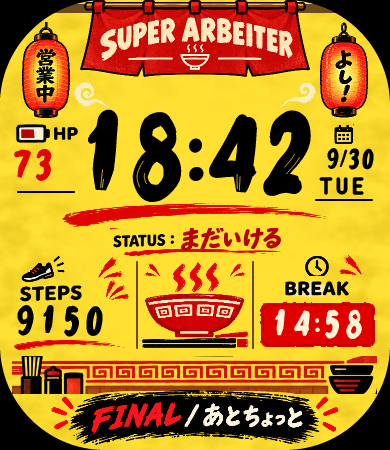
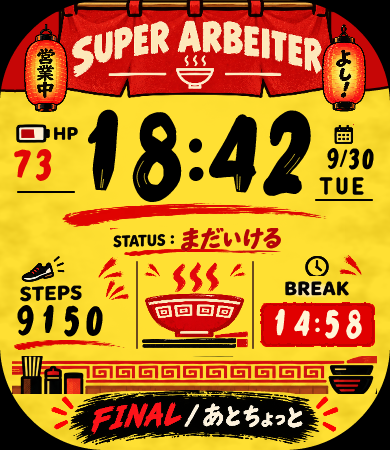
feat: SUPER ARBEITER の暖簾を横幅いっぱいにし、提灯を手前に重ねる
実機で見たユーザーの希望で、「SUPER ARBEITER」を強調する。

- 暖簾の絵を縦横比を保って大きくした（230px → 300px 幅、文字は約1.3倍）
- 足りない左右は同じ赤の布と竿を描き足し、画面の横幅いっぱいにした
- 提灯を暖簾の手前に重ねて立体感を出した。提灯は暖簾の文字にかからない
- 暖簾の文字の範囲を素材の画素から測り、安全領域のテストに使った
- 湯気の渦の飾りは暖簾の下に隠れるのでやめた

Claude-Session: https://claude.ai/code/session_0148EEt9eWWYJUbRqsx6i77h

Changed region(s): [[0.0, 0.0, 1.0, 0.28]]

diff --git a/faces/super-arbeiter/watchface/layout.js b/faces/super-arbeiter/watchface/layout.js
@@ -28,10 +28,13 @@ export function timeWidth(spec = DIGITS.time, hourDigits = 2) {
 }
 
 export const LAYOUT = Object.freeze({
-  // 上：暖簾と提灯（背景の絵）
-  noren: { x: 80, y: 0, w: 230, h: 77 },
-  lanternLeft: { x: 22, y: 22, w: 48, h: 96 },
-  lanternRight: { x: 320, y: 22, w: 48, h: 96 },
+  // 上：暖簾と提灯（背景の絵）。暖簾の絵は縦横比を保って大きく置き、
+  // 足りない左右は同じ赤の布と竿を描き足して横幅いっぱいにする。提灯は暖簾の手前に重ねる
+  noren: { x: 45, y: -2, w: 300, h: 100 },
+  norenRod: { y: 1, h: 8 }, // 横幅いっぱいの竿
+  norenSides: { y: 6, h: 84, inner: 60 }, // 左右に描き足す布（端から inner px まで。暖簾の絵の下に入る）
+  lanternLeft: { x: 24, y: 24, w: 44, h: 88 },
+  lanternRight: { x: 322, y: 24, w: 44, h: 88 },
   // 真ん中の段：左に HP、真ん中に時刻、右に日付
   time: { y: 108 },
   batteryIcon: { x: 16, y: 124, w: 34, h: 19 },
@@ -63,8 +66,6 @@ export const LAYOUT = Object.freeze({
   footer: { x: 50, y: 390, w: 290, h: 55 },
   // 勢いの飾り（背景の絵。受け取った飾りの素材）。flip は左右反転
   decor: [
-    { name: 'steam-a', x: 74, y: 82, w: 38, h: 25 },
-    { name: 'steam-b', x: 278, y: 82, w: 38, h: 25, flip: true },
     { name: 'burst-2', x: 98, y: 257, w: 26, h: 22 },
     { name: 'burst-2', x: 338, y: 255, w: 24, h: 21, flip: true },
     { name: 'burst-3', x: 106, y: 279, w: 24, h: 21 },
@@ -84,7 +85,7 @@ export const LAYOUT = Object.freeze({
 // 飾りの絵の中で、文字が入っている範囲（絵の枠に対する割合）。四隅に欠けないかのテストで使う。
 // FINAL の文字の範囲は、テストで素材の画素から測って確かめる
 export const TEXT_IN_ART = Object.freeze({
-  noren: { x: 0.1, y: 0.3, w: 0.8, h: 0.45 },
+  noren: { x: 0.089, y: 0.227, w: 0.833, h: 0.676 }, // 素材の画素から測った、文字と丼の印の範囲
   lanternLeft: { x: 0.2, y: 0.3, w: 0.6, h: 0.5 },
   lanternRight: { x: 0.2, y: 0.3, w: 0.6, h: 0.5 },
 })

diff --git a/faces/super-arbeiter/watchface/theme.js b/faces/super-arbeiter/watchface/theme.js
@@ -5,7 +5,11 @@ export const COLORS = Object.freeze({
   BLACK: 0x000000,
   CREAM: 0xfff5d6,
   AOD_TEXT: 0x8c8676, // 画面オフ時の文字（暗いクリーム）
-  DIVIDER: 0x6b4a1e, // 区切りの線・暖簾の奥の梁
+  DIVIDER: 0x6b4a1e, // 区切りの線
+  NOREN: 0xc60606, // 暖簾の布（描き足す左右の布。暖簾の絵の赤に合わせる）
+  NOREN_EDGE: 0x140000, // 暖簾の布のふち
+  ROD: 0x9a5a1e, // 暖簾の竿
+  ROD_LIGHT: 0xe0a143, // 竿のつや
 })
 
 // 絵の線の太さ（曜日の英字は 40×64 の枠に対する太さ。数字は tools/brush-digits.mjs の字形）

diff --git a/docs/UI_RULES.md b/docs/UI_RULES.md
@@ -69,7 +69,8 @@
 - 数字：`tools/brush-digits.mjs` で1字ずつ作った筆の字形（塗りつぶし）。太さと傾きは `watchface/theme.js` の `DIGIT_STYLE`。時刻は黒でいちばん太く、かすれ入り。HP（赤）・STEPS（黒）・日付（黒）・BREAK（クリーム）はかすれなし。AOD は細く、かすれなし
 - 数字の穴（0・4・6・8・9）は原寸でもつぶれないこと。数字の画像は、太さ・傾きを入れた輪郭がちょうど収まる枠で書き出し、ふちで切らないこと（`tools/brush-digits.mjs` の `exportViews`）。となりの数字とくっつかないこと（`DIGITS` の gap と `DIGIT_STYLE` の squeeze で調整する）。どれもテストで確かめている（全時刻・全月日・HP 100）
 - 質感：黄色い地の外周に弱い紙のまだら、BREAK の箱の縁に筆の荒れ。数字の後ろは平らなまま（`theme.js` の `TEXTURE`）
-- 飾り：暖簾の下の左右に湯気の渦、STEPS・BREAK・丼のまわりに赤い勢い線、時刻・STATUS・STEPS の下に赤い筆の線。置き場所は `watchface/layout.js` の `decor`
+- 暖簾：「SUPER ARBEITER」を強く見せるため、横幅いっぱいにする。暖簾の絵は縦横比を保って大きく置き（文字をゆがめない）、足りない左右は同じ赤の布と竿を描き足す。提灯は暖簾の手前に少し重ねて立体感を出す。提灯は暖簾の文字に重ねない
+- 飾り：STEPS・BREAK・丼のまわりに赤い勢い線、時刻・STATUS・STEPS の下に赤い筆の線。置き場所は `watchface/layout.js` の `decor`
 - HP は色だけでなく数字で出す
 - 四隅：Bip 6 は四隅が大きく丸い（半径およそ105px）。数字と文字は四隅と端12pxの内側に収める（テストで確かめている）。飾りは少し欠けてよい
 - AOD：黒い背景に、時刻・日付・HP（暗いクリーム）だけ。暖簾・提灯・丼・STATUS・BREAK・STEPS・FINAL は出さない

diff --git a/docs/CURRENT_TASK.md b/docs/CURRENT_TASK.md
@@ -22,6 +22,7 @@
 
 ## 最近終わったこと（新しい順）
 
+- 2026-09-30 実機で見たユーザーの希望で、暖簾を横幅いっぱいにし（文字は約1.3倍）、提灯を暖簾の手前に重ねた。湯気の渦の飾りは暖簾の下になるのでやめた（Claude）
 - 2026-09-30 Codex の4回目のレビューで、SUPER ARBEITER の見た目が参考画像への近さ 90/100 の基準に達した（時刻の筆文字 25／構図 23／装飾 19／色・質感 13／文言 10）。数字の切れ・「:4」の接触は修正済みと確認された。実機での確認は残っている（Codex）
 - 2026-09-30 Codex の3回目のレビュー（86/100）を受けて：数字の画像のふちの切れと「:4」の接触を直し、全時刻でくっつかないことをテストにした。紙と筆の質感、STATUS の下線、丼まわりの勢い線を足した（Claude）
 - 2026-09-30 Codex の再レビュー（参考画像への近さ 72/100）を受けて、SUPER ARBEITER の作り方を変えた：390×450 の完成見本を先に決め、参考画像と同じ構図（時刻の左に HP、右に日付）にし、数字 0〜9 を1字ずつ筆の字形で作り直した（Claude）

diff --git a/faces/super-arbeiter/README.md b/faces/super-arbeiter/README.md
@@ -9,12 +9,12 @@ Amazfit Bip 6 用の、ラーメン屋で働くスーパーアルバイターの
 ## 表示するもの
 
 - 時刻（いちばん大きく。システムの12/24時間設定に合わせる）
-- 上：暖簾「SUPER ARBEITER」、左に「営業中」、右に「よし!」の提灯
+- 上：横幅いっぱいの暖簾「SUPER ARBEITER」、その手前に左「営業中」、右「よし!」の提灯
 - 時刻：1字ずつ作った筆の数字（入りが太く、終わりを払い、少し前に傾く。大きい時刻だけ、かすれ入り）
 - 時刻の左に HP（電池の残り。赤い数字）、右に日付（`9/30`）と曜日（`TUE`）
 - 時刻の下：赤い筆の線と `STATUS : まだいける`
 - 下の段：左に STEPS（歩数）、真ん中に丼と湯気と箸、右に BREAK（休憩の時刻）
-- 湯気の渦・赤い勢い線・筆の下線の飾り
+- 赤い勢い線・筆の下線の飾り
 - 下：厨房カウンターの飾りと `FINAL / あとちょっと`
 - AOD：黒い背景に、時刻・日付・HP だけ（暗いクリーム色）
 
